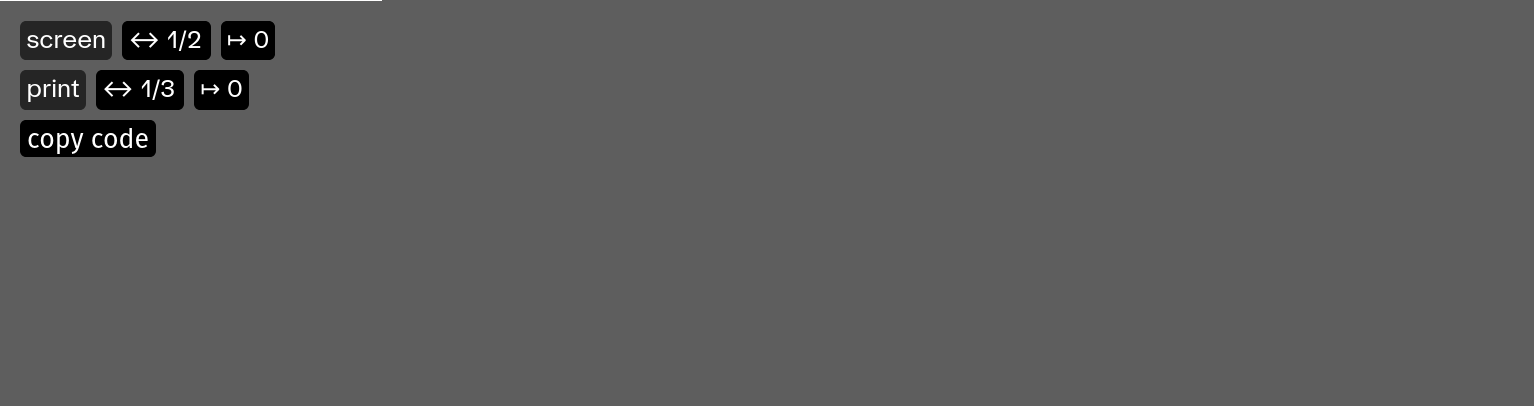
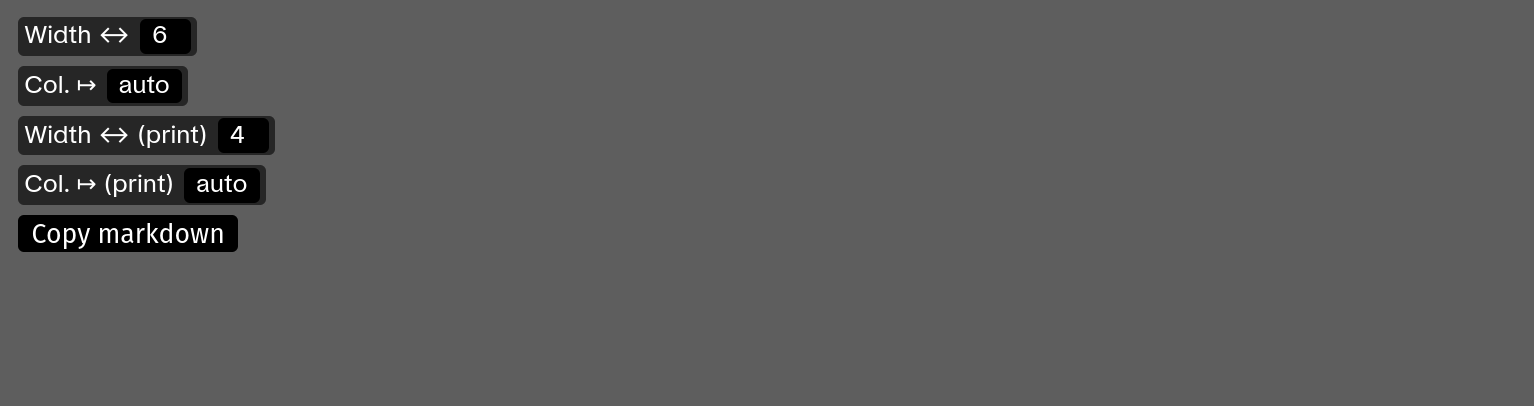
Mise à jour de la documentation pour tenir compte des ajouts fonctionnels (figures et images).

Changed region(s): [[0.0, 0.0296, 0.1838, 0.6207]]

diff --git a/docs/theme/js/hljs-pttp.js b/docs/theme/js/hljs-pttp.js
@@ -6,7 +6,7 @@ hljs.registerLanguage(
     "use strict";
     return function (n) {
       const k = {
-        attribute: "imagenote caption video figure poster class term",
+        attribute: "imagenote caption video figure poster class term image width printwidth col printcol",
         literal: "hljs-note",
         value: "offset0 offset2 offset4 offset6 offset8 quarter third half twothird threequarter full notwhite printleft printright",
         built_in: "glossary ¶¶¶ cap close complex copy imag len make new panic print println real recover delete",

diff --git a/docs/source/appendices.md b/docs/source/appendices.md
@@ -2,7 +2,43 @@
 
 ## Annexes
 
-Pour les annexes, organisées sur une grille de 12 colonnes (_template_ `appendices`), quelques `class` sont prédéfinies pour faciliter la mise en page :
+Les annexes (_template_ `appendices`) et les sections iconographiques (_template_ `figures`) sont organisées sur une grille de 12 colonnes.
+
+### Dimensions et mise en page des figures et des images 
+
+On peut ajouter au code d’insertion d’une image des attributs `width`, `prinwidth`, `col` et `printcol` qui permettront de déterminer la largeur et la position (colonne) d’affichage de l’image.
+
+Par défaut, chaque image ou figure occupe 3 colonnes.
+
+```pttp
+(image: images/fichier.jpg width:8 printwidth:4)
+```
+↑ Cette image occupera 8 colonnes en version écran et 4 colonnes en version _print_.
+
+```pttp
+(image: images/fichier.jpg width:8 col:5)
+```
+↑ Cette image occupera 3 colonnes (par défaut) en version _print_, 8 colonnes en version écran et sera décalée (à l’écran) en 5<sup>e</sup> colonne.
+
+
+
+### À l’aide !
+
+Pour aider à la mise en page “visuelle” des images, on peut activer un utilitaire visuel qui aide à déterminer le code d’intégration des images.
+
+En contexte écran, ajouter `/?layout` à l’URL.   
+En contexte de prévisualisation print : `/?print&layout`.   
+
+![image layout helper](images/layout-helper.png)
+
+
+Chaque figure se voit alors doté d’un outil permettant de définir la largeur de la figure (de 3 à 12) et son décalage (auto, ou de 1 à 9). 
+
+⚠ Le code d’intégration de la figure est alors copié dans le presse-papier, et doit être collé dans le document markdown source. Attention, en contexte d’impression, la mise en page n’est pas recalculée. Il faut modifier le code d’intégration de la figure concernée dans le fichier markdown, l’enregistrer, puis actualiser la page dans le navigateur.
+
+### Breaking changes! 
+
+Avant la version « Figures » de PageTypeToPrint (18 janvier 2024), les options de largeur et de décalage étaient déterminées grâce à des `class` prédéfinies :
 
 * `offset0` : pas de décalage (valeur par défaut)
 * `offset2` décale l’image en colonne 3
@@ -20,30 +56,3 @@ Par exemple :
 ```pttp
 (figure: url/de_limage.jpg class: notwhite offset6 half) 
 ```
-### Web _vs_ print
-
-
-
-Pour diférencier la mise en page des images entre l’écran et l’impression, on peut établir des styles différents pour chaque contexte :
-
-```pttp
-(figure: images/01.jpg class: half print: full)
-```
-↑ Cette image occupera la moitié de la largeur de l’empagement en version écran, et la pleine largeur en version imprimable.
-
-
-
-### À l’aide !
-
-Pour aider à la mise en page “visuelle” des images, on peut activer un utilitaire visuel qui aide à déterminer le code d’intégration des images.
-
-En contexte écran, ajouter `/?layout` à l’URL.   
-En contexte de prévisualisation print : `/?print&layout`.   
-
-![image layout helper](images/layout-helper.png)
-
-
-Chaque figure se voit alors doté d’un outil permettant de définir la largeur de la figure (`quarter`, `third`, `half`, `twothird`, `threequarter` ou `full`) et son décalage (`offset0`, `offset2`, `offset4`, `offset6` ou `offset8`). 
-
-⚠ Le code d’intégration de la figure est alors copié dans le presse-papier, et doit être collé dans le document markdown source. Attention, en contexte d’impression, la mise en page n’est pas recalculée. Il faut modifier le code d’intégration de la figure concernée dans le fichier markdown, l’enregistrer, puis actualiser la page dans le navigateur.
-

diff --git a/docs/source/images.md b/docs/source/images.md
@@ -9,14 +9,40 @@ Des images et vidéos légendées peuvent être insérées grâce à des « _sh
 
 Les images peuvent être intégrées au fil du texte sous forme de note de côté :
 ```pttp
-(imagenote: url/de_limage.jpg caption: La légende de l’image)
+(imagenote: url/de_limage.jpg caption: La légende et _la source_.)
 ```
 
-Mais également sous forme de blocs :
+Mais également sous forme de bloc au sein du texte :
 
 ```pttp 
-(figure: url/de_limage.jpg caption: La légende de l’image)
+(image: url/de_limage.jpg caption: La légende et _la source_.)
 ```
+
+Ou encore sous forme d’appels de figures :
+
+```pttp 
+(figure: url/de_limage.jpg caption: La légende et _la source_.)
+```
+
+Cette dernière modalité introduit au fil du texte un lien hypertexte qui renvoit à l’image affichée en fin de section. Cela autorise un affichage d’images de plus grande taille qu’au fil du texte.
+
+
+### Vidéos
+
+Pour intégrer une vidéo Youtube ou Vimeo, utiliser le _shortcode_ `video` et l’URL de la page :
+```pttp
+(video: https://www.youtube.com/watch?v=yfskVxCn_qo class: maclass caption: La légende de la vidéo)
+(video: https://vimeo.com/708803521 class: maclass caption: La légende de la vidéo)
+```
+
+Pour la version imprimable, il est souhaitable de déterminer quelle image sera imprimée, grâce à l’attribut `poster`:
+```pttp
+(video: https://www.youtube.com/watch?v=yfskVxCn_qo poster: images/videocover.jpg)
+```
+
+En version print, l’URL de la vidéo est affichée sous sa légende.
+
+### Mise en forme des images
 
 On peut ajouter des `class` aux images :
 
@@ -39,20 +65,7 @@ Pour aligner les images de note à gauche ou à droite (en contexte d’impressi
 Pour des images sous forme de blocs qui demandent une grande largeur d’affichage, on peut utiliser la `class: full` :
 
 ```pttp
-(imagenote: url/de_limage.jpg class: full)
+(image: url/de_limage.jpg class: full)
 ```
 
-### Vidéos
-
-Pour intégrer une vidéo Youtube ou Vimeo, utiliser le _shortcode_ `video` et l’URL de la page :
-```pttp
-(video: https://www.youtube.com/watch?v=yfskVxCn_qo class: maclass caption: La légende de la vidéo)
-(video: https://vimeo.com/708803521 class: maclass caption: La légende de la vidéo)
-```
-
-Pour la version imprimable, il est souhaitable de déterminer quelle image sera imprimée, grâce à l’attribut `poster`:
-```pttp
-(video: https://www.youtube.com/watch?v=yfskVxCn_qo poster: images/videocover.jpg)
-```
-
-En version print, l’URL de la vidéo est affichée sous sa légende.
+Voir [la section suivante](appendices.md) pour déterminer les tailles d’affichage pour les images insérées grace à `(figure: …)`.

diff --git a/docs/source/extendcss.md b/docs/source/extendcss.md
@@ -1,8 +1,12 @@
-## Modifications rapides
+## Modifier l’affichage
+
+Pour modifier l’apparence des documents, il est possible de dupliquer le thème par défaut, pour être en mesure d’éditer à la fois les styles graphiques, les scripts et la structure HTML du document.
+
+N’hésitez pas à partager vos thèmes ! En contribuant au [code sur GitHub](https://github.com/esadpyrenees/PageTypeToPrint/) ou par e-mail, en [me signalant](mailto:julien.bidoret@esad-pyrenees.fr) vos modifications.
 
 ### Changer le caractère typographique
 
-Modifier le fichier `css/style.css` du thème pour déclarer le (ou les) nouveau(x) catactère(s), et modifier la valeur de `--fontfamily` dans les propriétés personnalisées.
+Une fois le thème par défaut dupliqué et le fichier `config.yml` mis à jour, modifier le fichier `themes/votre_theme/css/style.css` du thème pour déclarer le (ou les) nouveau(x) catactère(s), et modifier la valeur de `--fontfamily` dans les propriétés personnalisées.
 
 ```css
 @font-face {

diff --git a/docs/source/extend.md b/docs/source/extend.md
@@ -7,7 +7,7 @@ PageTypeToPrint propose une expérience de publication et de mise en page web + 
 L’outil est néanmoins conçu pour être modifié, augmenté ou détourné ; et servir de base à une appropriation progressive des logiques _web to print_.
 
 
-- Premiers pas dans [l’extension de PageTypeToPrint](extendcss.md)
+- Premiers pas dans [la modification des logiques d’affichage](extendcss.md)
 - Faire un [livret A5 recto-verso](booklet.md)
 - Utiliser un pad public pour engager une [écriture collaborative](pads.md)
 - Automatiser l’importation d’un [dossier d’images](autofolder.md)

diff --git a/docs/source/notes.md b/docs/source/notes.md
@@ -33,7 +33,11 @@ En contexte d’impression, si trop d'images de note sont présentes sur une seu
 
 Plusieurs solutions : 
 
-- Utiliser une grande `figure` au fil du texte pour développer la pagination différemment:
+- Utiliser une grande `image` au fil du texte pour développer la pagination différemment:
+```pttp 
+(image: nomdufichier.jpg caption: La légende de l’image)
+```
+- Utiliser un appel de `figure` au fil du texte (l’image sera alors affichée en fin de section):
 ```pttp 
 (figure: nomdufichier.jpg caption: La légende de l’image)
 ```
